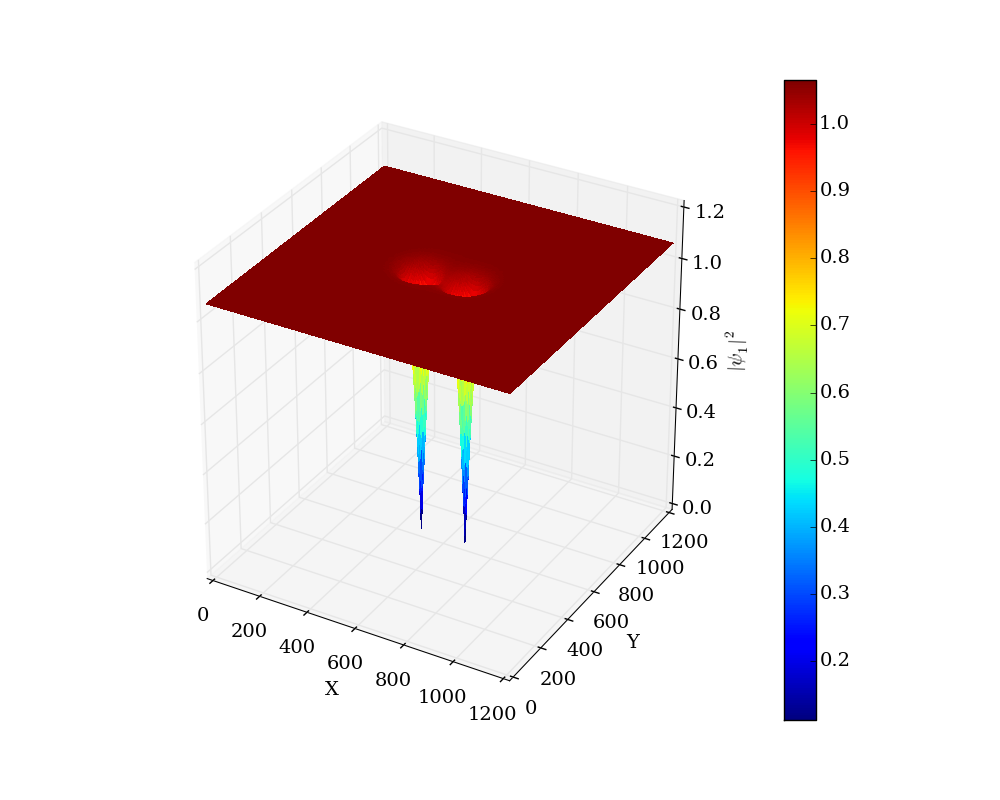
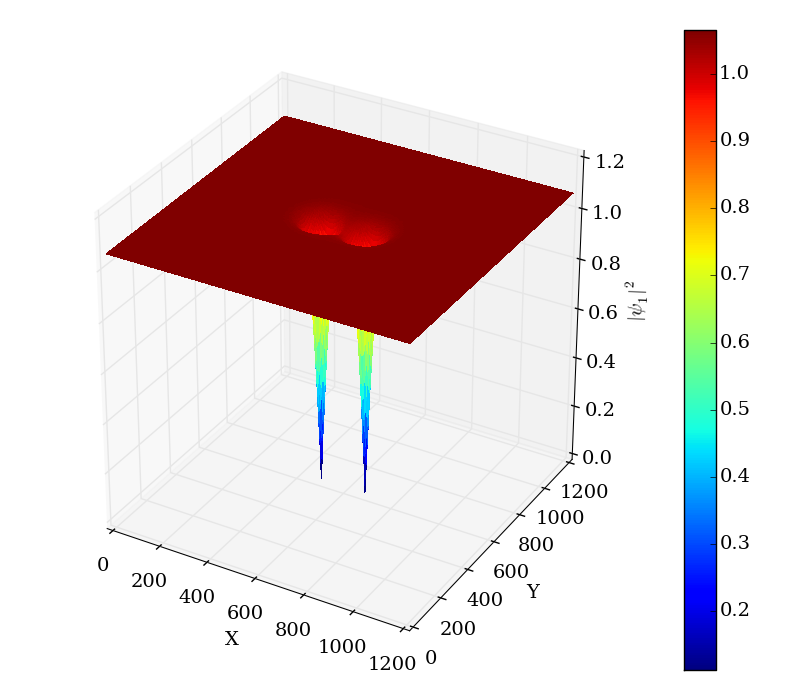
resize

diff --git a/text/07-main.tex b/text/07-main.tex
@@ -257,7 +257,7 @@
 
 \begin{figure}[h!]
     \center
-    \includegraphics[width=0.8\textwidth]{data_01/3d_B}
+    \includegraphics[width=0.7\textwidth]{data_01/3d_B}
     \caption{Распределение магнитного поля для вихрей абрикосова в 
         сверхпроводнике 1,5-го рода при параметрах из Таблицы \ref{param:01}.}
     \label{img:3d-field-B-01}
@@ -265,7 +265,7 @@
 
 \begin{figure}[h!]
     \center
-    \includegraphics[width=0.8\textwidth]{data_01/map_B}
+    \includegraphics[width=0.7\textwidth]{data_01/map_B}
     \caption{Вид линий уровня Рисунка \ref{img:3d-field-B-01}. 
         Рассматриваемая область увеличена.}
     \label{img:map-field-B-01}
@@ -281,7 +281,7 @@
 
 \begin{figure}[h!]
     \center
-    \includegraphics[width=0.8\textwidth]{data_01/map_F1}
+    \includegraphics[width=0.7\textwidth]{data_01/map_F1}
     \caption{Вид линий уровня Рисунка \ref{img:3d-band-1-01}. 
         Рассматриваемая область увеличена.}
     \label{img:map-band-1-01}
@@ -289,7 +289,7 @@
 
 \begin{figure}[h!]
     \center
-    \includegraphics[width=0.8\textwidth]{data_01/3d_F2}
+    \includegraphics[width=0.7\textwidth]{data_01/3d_F2}
     \caption{Характерный вид энергии взаимодействия первой зоны в 
         сверхпроводнике (\( \abs{\psi_2}^2 \)-компонента).}
     \label{img:3d-band-2-01}
@@ -297,7 +297,7 @@
 
 \begin{figure}[h!]
     \center
-    \includegraphics[width=0.8\textwidth]{data_01/map_F2}
+    \includegraphics[width=0.7\textwidth]{data_01/map_F2}
     \caption{Вид линий уровня Рисунка \ref{img:3d-band-2-01}. 
         Рассматриваемая область увеличена.}
     \label{img:map-band-2-01}
@@ -305,7 +305,7 @@
 
 \begin{figure}[h!]
     \center
-    \includegraphics[width=0.8\textwidth]{data_01/band_profile}
+    \includegraphics[width=0.7\textwidth]{data_01/band_profile}
     \caption{График поперечного сечения, показывающий форму вихря, полученный 
         для двух взаимодействующих абрикосовских вихрей в сверхпроводнике 
         полуторного рода. Здесь \( 1 \) -- первая активная зона в 
